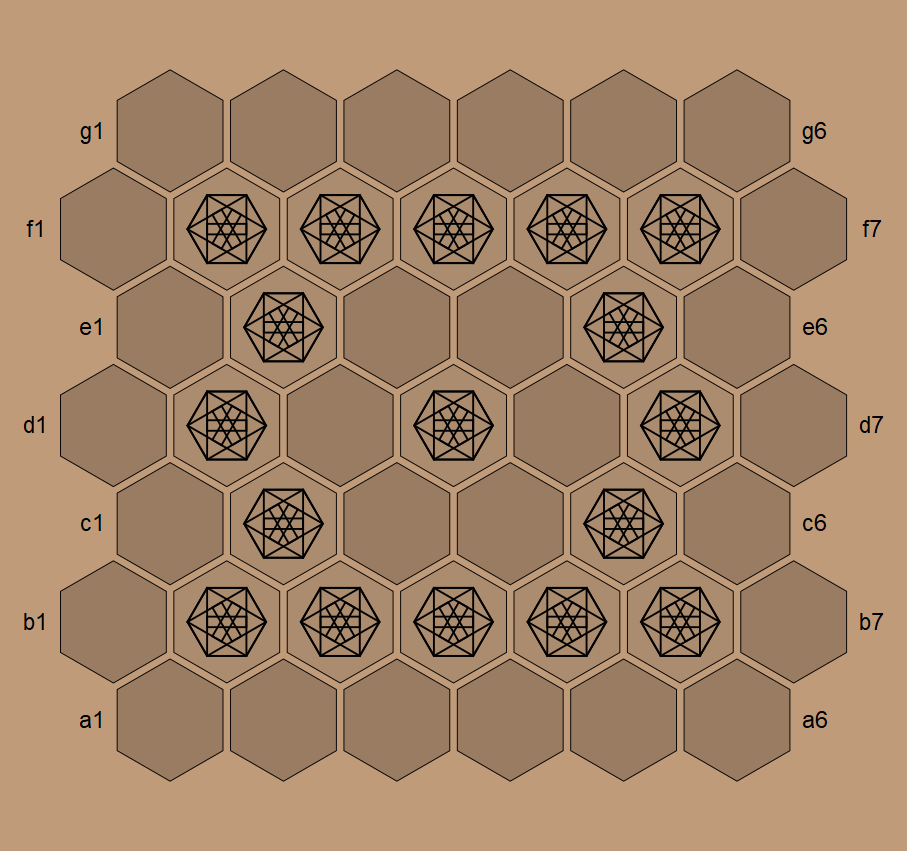
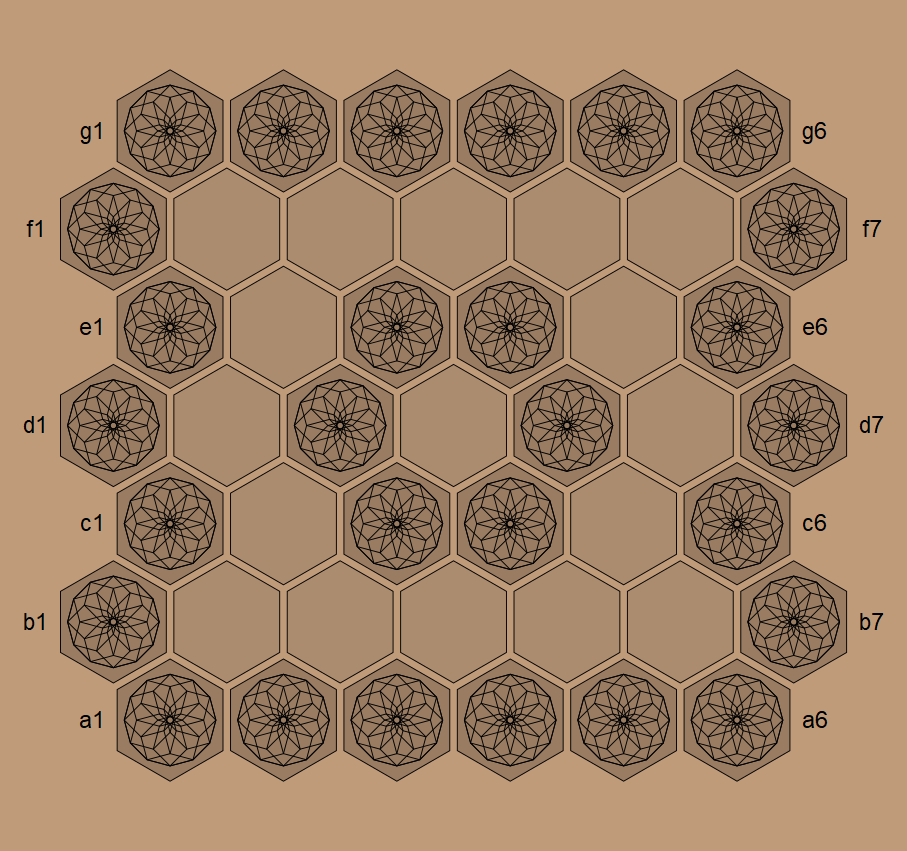
Decorating with flower like pattern

diff --git a/pijersi_svg/pijersi_svg.py b/pijersi_svg/pijersi_svg.py
@@ -497,7 +497,7 @@ def draw_board(with_all_labels=False, without_labels=False, with_decoration=Fals
 
     for abstract_hexagon in Hexagon.all:
 
-        hexagon_vertex_data =[]
+        hexagon_vertex_data = []
 
         hexagon_scale = 1 - CANVAS_CONFIG.hexagon_padding/CANVAS_CONFIG.hexagon_width
 
@@ -525,62 +525,74 @@ def draw_board(with_all_labels=False, without_labels=False, with_decoration=Fals
                              close='true')
         board.append(hexagon)
 
-        if with_decoration and abstract_hexagon.ring % 2 != 0:
+        if with_decoration and abstract_hexagon.ring % 2 == 0:
 
-            inner_hexagon_vertex_data =[]
-            inner_hexagon_vertices =[]
+            decorater_polygon_side_count = 12
 
-            inner_hexagon_scale = 0.60
+            decorater_polygon_vertex_data = []
+            decorater_polygon_vertices = []
 
-            for vertex_index in range(CANVAS_CONFIG.hexagon_vertex_count):
-                vertex_angle = (vertex_index)*CANVAS_CONFIG.hexagon_side_angle
+            decorater_polygon_scale = 0.70
 
-                inner_hexagon_vertex = abstract_hexagon.center
+            for vertex_index in range(decorater_polygon_side_count):
+                vertex_angle = (vertex_index)*2*math.pi / \
+                    decorater_polygon_side_count
 
-                inner_hexagon_vertex = inner_hexagon_vertex + inner_hexagon_scale*CANVAS_CONFIG.hexagon_side * \
+                decorater_polygon_vertex = abstract_hexagon.center
+
+                decorater_polygon_vertex = decorater_polygon_vertex + decorater_polygon_scale*CANVAS_CONFIG.hexagon_side * \
                     math.cos(vertex_angle)*CANVAS_CONFIG.unit_x
 
-                inner_hexagon_vertex = inner_hexagon_vertex + inner_hexagon_scale*CANVAS_CONFIG.hexagon_side * \
+                decorater_polygon_vertex = decorater_polygon_vertex + decorater_polygon_scale*CANVAS_CONFIG.hexagon_side * \
                     math.sin(vertex_angle)*CANVAS_CONFIG.unit_y
 
-                inner_hexagon_vertex_data.append(inner_hexagon_vertex[0])
-                inner_hexagon_vertex_data.append(inner_hexagon_vertex[1])
-                
-                inner_hexagon_vertices.append(inner_hexagon_vertex)
+                decorater_polygon_vertex_data.append(
+                    decorater_polygon_vertex[0])
+                decorater_polygon_vertex_data.append(
+                    decorater_polygon_vertex[1])
 
-            inner_hexagon = draw.Lines(*inner_hexagon_vertex_data,
-                                 fill=None,
-                                 fill_opacity=0,
-                                 stroke='black',
-                                 stroke_width=CANVAS_CONFIG.hexagon_line_width*2,
-                                 close='true')
-            board.append(inner_hexagon)
+                decorater_polygon_vertices.append(decorater_polygon_vertex)
 
-            
-            for (vertex_1, vertex_2) in zip(inner_hexagon_vertices, inner_hexagon_vertices[1:] + [inner_hexagon_vertices[0]]):
-                vector_0 = vertex_2 - vertex_1
-                vector_1 = vector_0.make_rotation(-math.pi/2)
-                vector_2 = vector_1.make_rotation(-math.pi/2)
-                
-                inner_square_vertices = []
-                inner_square_vertices.append(vertex_1)
-                inner_square_vertices.append(inner_square_vertices[0] + vector_0)
-                inner_square_vertices.append(inner_square_vertices[1] + vector_1)
-                inner_square_vertices.append(inner_square_vertices[2] + vector_2)
-                inner_square_vertices.append(inner_square_vertices[0] )
-                
-                inner_square_vertex_data = []
-                for inner_square_vertex in inner_square_vertices:
-                    inner_square_vertex_data.append(inner_square_vertex[0])
-                    inner_square_vertex_data.append(inner_square_vertex[1])
-                    
-                inner_square = draw.Lines(*inner_square_vertex_data,
-                                     fill=None,
-                                     fill_opacity=0,
-                                     stroke='black',
-                                     stroke_width=CANVAS_CONFIG.hexagon_line_width*2,
-                                     close='true')
-                board.append(inner_square)                
+            decorater_polygon = draw.Lines(*decorater_polygon_vertex_data,
+                                           fill=None,
+                                           fill_opacity=0,
+                                           stroke='black',
+                                           stroke_width=CANVAS_CONFIG.hexagon_line_width,
+                                           close='true')
+            board.append(decorater_polygon)
+
+            for (vertex_1, vertex_2) in zip(decorater_polygon_vertices, decorater_polygon_vertices[1:] + [decorater_polygon_vertices[0]]):
+                rotating_polygon_side_count = 6
+
+                rotating_polygon_vertices = []
+                for rotating_polygon_side_index in range(rotating_polygon_side_count):
+
+                    if rotating_polygon_side_index == 0:
+                        vector = vertex_2 - vertex_1
+                        rotating_polygon_vertices.append(vertex_1)
+
+                    else:
+                        vector = vector.make_rotation(-2 *
+                                                      math.pi/rotating_polygon_side_count)
+
+                    rotating_polygon_vertices.append(
+                        rotating_polygon_vertices[rotating_polygon_side_index] + vector)
+                rotating_polygon_vertices.append(rotating_polygon_vertices[0])
+
+                rotating_polygon_vertex_data = []
+                for rotating_polygon_vertex in rotating_polygon_vertices:
+                    rotating_polygon_vertex_data.append(
+                        rotating_polygon_vertex[0])
+                    rotating_polygon_vertex_data.append(
+                        rotating_polygon_vertex[1])
+
+                rotating_polygon = draw.Lines(*rotating_polygon_vertex_data,
+                                              fill=None,
+                                              fill_opacity=0,
+                                              stroke='black',
+                                              stroke_width=CANVAS_CONFIG.hexagon_line_width,
+                                              close='true')
+                board.append(rotating_polygon)
 
         if without_labels:
             label_location = None
@@ -627,6 +639,7 @@ def main():
     draw_board(without_labels=True)
     draw_board(with_all_labels=False)
     draw_board(with_all_labels=False, with_decoration=True)
+    draw_board(without_labels=True, with_decoration=True)
 
 
 CANVAS_CONFIG = make_canvas_config()
